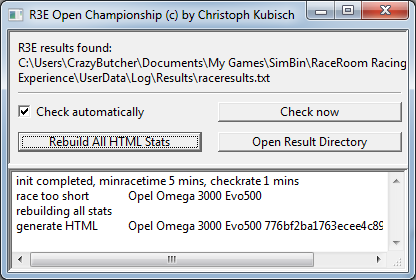
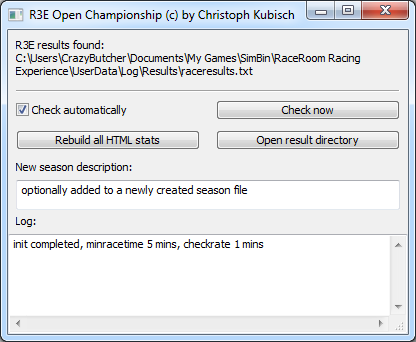
added optional description string for a championship (request by tAz-07)

diff --git a/doc/sample.html b/doc/sample.html
@@ -75,6 +75,7 @@ td.pointcolumn {
     </head>
     <body>
     <h1>R3E Championship Standings</h1>
+    <h3>DTM 92, Season 1</h3>
     <table>
     <caption>Driver Standings</caption>
     <tr>
